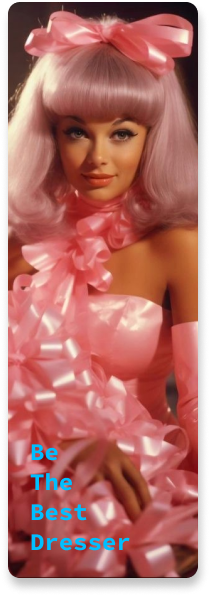
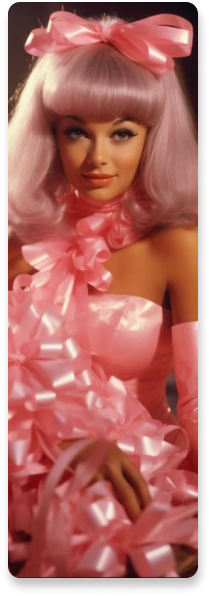
250117

Changed region(s): [[0.1429, 0.7248, 0.6, 0.9362]]

diff --git a/css/tab.css b/css/tab.css
@@ -1,4 +1,3 @@
-/* 1660px부터 반응형 */
 @media all and (min-width: 768px) and (max-width: 1660px) {
   .toTop {
     bottom: 40px;
@@ -39,7 +38,8 @@
   .burger li:first-child {
     margin-top: 5px;
   }
-  .burger:hover li {
+  .burger:hover li,
+  .burger:active li {
     border: 3px solid #ff6ec7;
   }
   .mainMenuTab {
@@ -95,12 +95,14 @@
     height: 200px;
   }
   .nextSlide img {
-    top: 75px;
-    left: 0;
+    width: 30px;
+    top: 85px;
+    left: 2%;
   }
   .prevSlide img {
-    top: 75px;
-    right: 0;
+    width: 30px;
+    top: 85px;
+    right: 2%;
   }
 
   /* New & Best & Steady */
@@ -192,5 +194,117 @@
   /* Recommendation */
   .recommendTag {
     left: 32px;
+    bottom: -200px;
+  }
+  .recommendBoardContainer {
+    margin-top: 160px;
+  }
+  /* Magazine & Events */
+  .sectionME {
+    width: 80%;
+  }
+  .magazineSection {
+    left: 24px;
+  }
+  .magaDetail {
+    width: 50%;
+    height: 100px;
+    top: 0;
+    right: 0;
+    margin: 12px 24px;
+  }
+  .magaDetail > p:nth-of-type(2) {
+    display: none;
+  }
+  /* Events */
+  .eventsSection {
+    right: 24px;
+    gap: 16px;
+  }
+  .evenCard img {
+    display: none;
+  }
+  .evenCard {
+    position: relative;
+    isolation: isolate;
+    transition: background-size 0.3s ease;
+  }
+  .evenCard:after {
+    content: "";
+    position: absolute;
+    background-color: rgba(0, 0, 0, 0.4);
+    z-index: -1;
+    inset: 0;
+  }
+  .even1 {
+    background: url(../images/event1_1.png) no-repeat center;
+    background-size: auto 108%;
+  }
+  .even2 {
+    background: url(../images/event2_1.png) no-repeat center;
+    background-size: auto 108%;
+  }
+  .even3 {
+    background: url(../images/event3_1.png) no-repeat center;
+    background-size: auto 108%;
+  }
+  .eventTxt {
+    display: block;
+    font-family: Joan, serif;
+    font-weight: 100;
+    writing-mode: vertical-lr;
+    letter-spacing: 4px;
+    font-size: 3rem;
+    padding-top: 24px;
+    transition: transform 0.3s ease;
+    color: #fff;
+  }
+  .evenCard:hover p,
+  .evenCard:active p {
+    color: #ff6ec7;
+  }
+  .evenCard:hover,
+  .evenCard:active {
+    background-size: auto 112%;
+  }
+  /* footer */
+  footer {
+    width: 100%;
+    border-left: none;
+    border-right: none;
+    border-top: 3px solid #000;
+    padding: 32px 32px 0 32px;
+  }
+  footer > img {
+    display: none;
+  }
+  .logoBottom img {
+    height: 40px;
+    margin-bottom: 2px;
+  }
+  .snsList li {
+    margin-bottom: 32px;
+  }
+  .email {
+    font-size: 0.75rem;
+  }
+  .copy {
+    font-size: 0.8rem;
+  }
+  .footerRight {
+    width: 300px;
+  }
+  .supportMenu {
+    width: 48%;
+  }
+  .legalMenu {
+    width: 48%;
+  }
+  .supportMenu a,
+  .legalMenu a {
+    font-size: 0.85rem;
+  }
+  .withLove {
+    font-size: 0.9rem;
   }
 }

diff --git a/css/style.css b/css/style.css
@@ -40,6 +40,10 @@ header {
   background-color: #fff;
   position: relative;
 }
+.mainMenuTab,
+.burger {
+  display: none;
+}
 /* nav */
 .navi a {
   font-family: "Pixelify Sans", sans-serif;
@@ -86,7 +90,8 @@ header {
   text-align: center;
   padding-bottom: 5px;
 }
-.main a:hover {
+.main a:hover,
+.main a:active {
   color: #ff6ec7;
 }
 /* logo */
@@ -242,7 +247,8 @@ header {
   font-size: 2rem;
   padding-top: 12px;
 }
-.tabMenu a:hover {
+.tabMenu a:hover,
+.tabMenu a:active {
   color: #ff6ec7;
 }
 /* new section */
@@ -290,7 +296,8 @@ header {
   border-radius: 0px 0px 12px 12px;
   transition: transform 0.3s ease;
 }
-.newCard:hover img {
+.newCard:hover img,
+.newCard:active img {
   transform: scale(1.05);
 }
 .tabCardHeadline {
@@ -349,7 +356,8 @@ header {
   overflow: hidden;
   box-shadow: 2px 8px 10px rgba(0, 0, 0, 0.25);
 }
-.saleCard:hover img {
+.saleCard:hover img,
+.saleCard:active img {
   transform: scale(1.05);
 }
 .saleCardImg {
@@ -425,7 +433,8 @@ header {
   object-fit: cover;
   transition: transform 0.3s ease;
 }
-.recoCircle:hover img {
+.recoCircle:hover img,
+.recoCircle:active img {
   transform: scale(1.05); /* 마우스 오버 시 확대 */
 }
 
@@ -454,7 +463,7 @@ header {
   font-weight: 600;
   white-space: nowrap;
   margin-right: 20px; /* 항목 간 간격 */
-  margin-top: 10px;
+  margin-top: 8px;
 }
 
 /* Magazine & Events */
@@ -506,7 +515,8 @@ header {
   object-fit: cover;
   transition: transform 0.3s ease;
 }
-.magaCard:hover .magaImage img {
+.magaCard:hover .magaImage img,
+.magaCard:active .magaImage img {
   transform: scale(1.05);
 }
 .magaDetail {
@@ -554,6 +564,9 @@ header {
   display: flex;
   gap: 32px;
 }
+.eventTxt {
+  display: none;
+}
 .evenCard {
   display: block;
   width: 210px;
@@ -569,7 +582,8 @@ header {
   object-position: center;
   transition: transform 0.3s ease;
 }
-.evenCard:hover img {
+.evenCard:hover img,
+.evenCard:active img {
   transform: scale(1.05);
 }
 
@@ -590,7 +604,8 @@ header {
   position: relative;
   right: -8px;
 }
-.viewMore:hover {
+.viewMore:hover,
+.viewMore:active {
   color: #ff6ec7;
 }
 /* footer */
@@ -633,7 +648,8 @@ footer > img {
 .email > a {
   text-decoration: underline;
 }
-.email > a:hover {
+.email > a:hover,
+.email > a:active {
   color: #ff6ec7;
 }
 .copy {
@@ -658,7 +674,8 @@ footer > img {
   font-family: "Pixelify Sans", sans-serif;
   font-size: 0.9rem;
 }
-.supportMenu a:hover {
+.supportMenu a:hover,
+.supportMenu a:active {
   color: #ff6ec7;
 }
 .legalMenu {
@@ -673,7 +690,8 @@ footer > img {
   font-family: "Pixelify Sans", sans-serif;
   font-size: 0.9rem;
 }
-.legalMenu a:hover {
+.legalMenu a:hover,
+.legalMenu a:active {
   color: #ff6ec7;
 }
 .withLove {

diff --git a/index.html b/index.html
@@ -6,6 +6,7 @@
     <title>♡Be Kitsch♡</title>
     <link rel="stylesheet" href="css/style.css" />
     <link rel="stylesheet" href="css/tab.css" />
+    <link rel="stylesheet" href="css/mob.css" />
     <script src="https://cdn.jsdelivr.net/npm/marquee.js"></script>
     <script
       src="https://code.jquery.com/jquery-3.7.1.min.js"
@@ -339,13 +340,16 @@
         <img class="eventsTitle" src="images/events.png" alt="events" />
         <div class="eventsSection">
           <a href="#" class="evenCard even1"
-            ><img src="images/event1.jpg" alt="event1"
-          /></a>
+            ><img src="images/event1.jpg" alt="event1" />
+            <p class="eventTxt et1">Be The Best Dresser</p></a
+          >
           <a href="#" class="evenCard even2"
-            ><img src="images/event2.jpg" alt="event2"
+            ><p class="eventTxt et2">Daily Tarot For You</p>
+            <img src="images/event2.jpg" alt="event2"
           /></a>
           <a href="#" class="evenCard even3"
-            ><img src="images/event3.jpg" alt="event3"
+            ><p class="eventTxt et3">Show Your Diary</p>
+            <img src="images/event3.jpg" alt="event3"
           /></a>
           <a href="#" class="viewMore"
             ><p>View More</p>

diff --git a/css/mob.css b/css/mob.css
@@ -1,0 +1,57 @@
+@media all and (max-width: 767.9px) {
+  .toTop {
+    bottom: 10px;
+    right: 10px;
+  }
+  .toTop img {
+    width: 40px;
+  }
+  /* header */
+  header {
+    height: 80px;
+    border-radius: 80px;
+    position: relative;
+  }
+  .navi,
+  .subCategories {
+    display: none;
+  }
+  .logo {
+    margin-left: -40%;
+  }
+  .logo img {
+    height: 20px;
+  }
+  .utils {
+    display: none;
+  }
+  .burger {
+    display: block;
+    width: 50px;
+    height: 50px;
+    position: absolute;
+    right: 0; /* 질문: 아니 어디에 relative가 잡혔길래 저래 안 가요 */
+    transition: transform 0.5s ease;
+  }
+  .burger ul {
+    width: 50px;
+    height: 50px;
+  }
+  .burger li {
+    width: 30px;
+    height: 1px;
+    border: 3px solid #000;
+    border-radius: 3px;
+    margin-bottom: 4px;
+  }
+  .burger li:last-child {
+    margin-bottom: 0;
+  }
+  .burger li:first-child {
+    margin-top: 5px;
+  }
+  .burger:hover li,
+  .burger:active li {
+    border: 3px solid #ff6ec7;
+  }
+}

diff --git a/js/script.js b/js/script.js
@@ -22,6 +22,8 @@ $(document).ready(function () {
     }
   );
 
+  // 질문: 터치스크린에선 어떻게 해야하지?
+
   ///////////////////////////
   // submenu
   $(".navi li:first-of-type, .subCategories").mouseover(function () {
